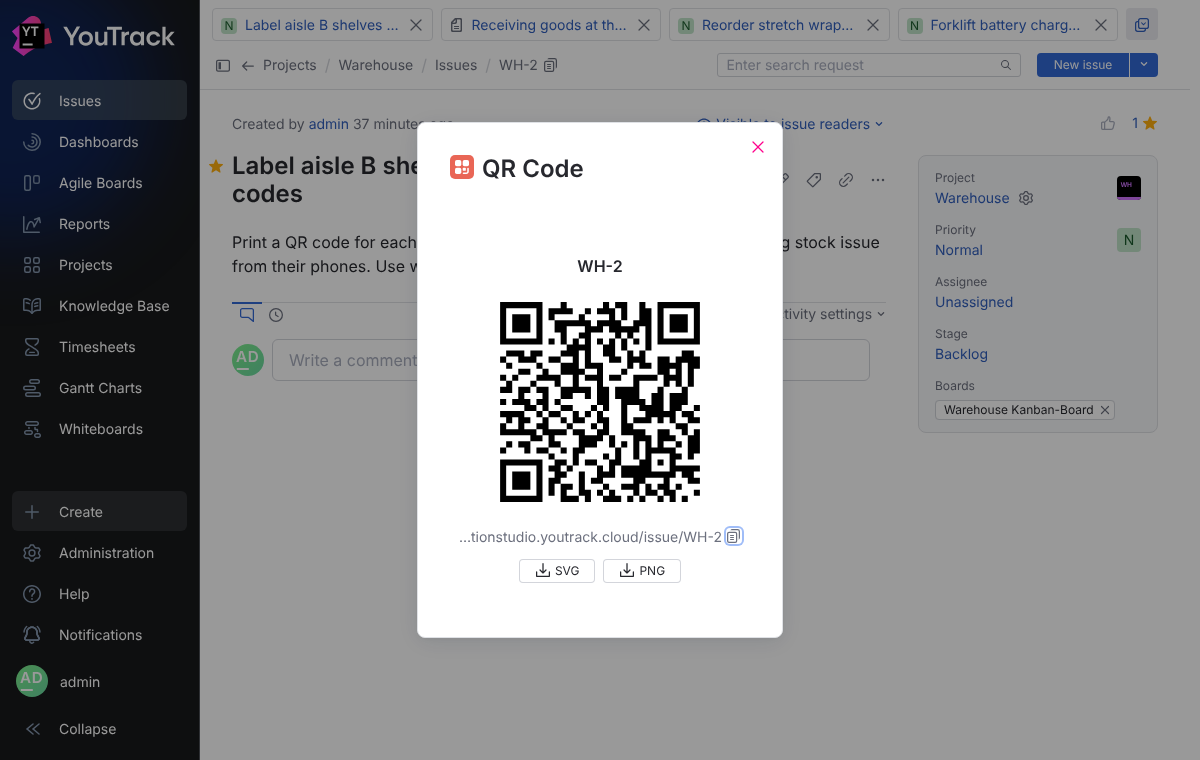
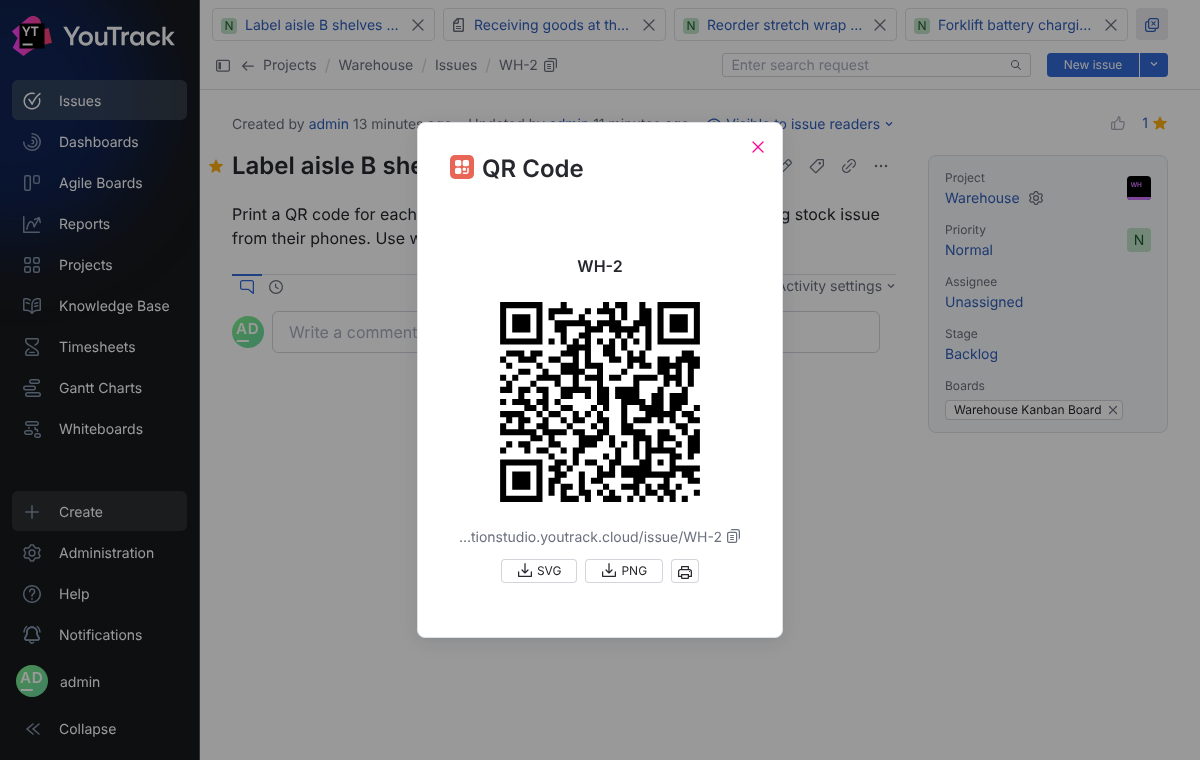
feat: update QR Code app page for v1.1.0
- replace screenshots with the new captures from YouTrack 2026.2,
  including dark article dialog and the printable label
- add print label feature and mention the label in the privacy note

diff --git a/content/english/youtrack/apps/qr-code.md b/content/english/youtrack/apps/qr-code.md
@@ -22,28 +22,29 @@ features:
   - title: "Right where you need it"
     content: "Open **QR Code** from the options menu (…) of any issue or knowledge base article."
     image: "/images/youtrack/apps/qr-code/03-menu-light.png"
-    image_dark: "/images/youtrack/apps/qr-code/03-menu-dark.png"
+    image_dark: "/images/youtrack/apps/qr-code/04-menu-dark.png"
     bulletpoints:
       - "Works for issues and knowledge base articles"
       - "Visible to everyone who can read the issue or article"
       - "No configuration needed"
+      - "Accessible with keyboard and screen readers"
 
   - title: "From screen to phone in a second"
     content: "Scan the code with your phone camera to open the item in the YouTrack mobile app or browser."
-    image: "/images/youtrack/apps/qr-code/01-issue-dialog-light.png"
-    image_dark: "/images/youtrack/apps/qr-code/02-issue-dialog-dark.png"
+    image: "/images/youtrack/apps/qr-code/05-article-dialog-light.png"
+    image_dark: "/images/youtrack/apps/qr-code/06-article-dialog-dark.png"
     bulletpoints:
       - "Copy the link with one click"
       - "Download the code as **SVG** or **PNG** with a print-ready quiet zone"
       - "Files are named after the ID, for example `PRJ-42-qr.png`"
-
-  - title: "Made for labels, whiteboards and handouts"
-    content: "Put QR codes on labels, whiteboards, hardware or printed handouts and link the physical world to your YouTrack."
-    image: "/images/youtrack/apps/qr-code/04-article-dialog-light.png"
-    bulletpoints:
       - "Works in light and dark theme"
-      - "Available in English and German"
-      - "Accessible with keyboard and screen readers"
+
+  - title: "Print a label straight from the dialog"
+    content: "Print a label with the QR code, ID, title and link. Stick it on shelves, equipment, hardware or folders, or use the code on whiteboards, slides and printed handouts."
+    image: "/images/youtrack/apps/qr-code/07-print-label.png"
+    bulletpoints:
+      - "QR code, ID, title and link on one label"
+      - "Dashed cutting guide for clean edges"
 ---
 
 ## Getting started
@@ -56,7 +57,7 @@ features:
 
 ## Privacy
 
-The QR code is generated in your browser. The app stores no data and sends nothing outside your YouTrack site.
+The QR code and the label are generated in your browser. The app stores no data and sends nothing outside your YouTrack site.
 
 ## Support
 
